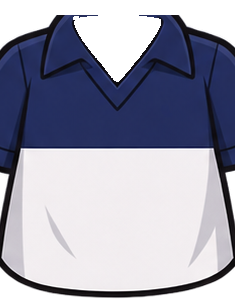
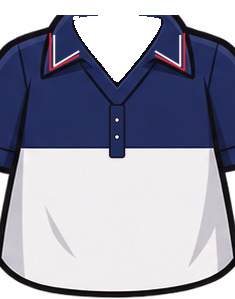
手摀被打處、受傷臉常駐、巴掌印/腫包/熊貓眼、Polo 領滾線與釦排、磕頭圖層修正

Changed region(s): [[0.4468, 0.3311, 0.5362, 0.5418], [0.6553, 0.0903, 0.8043, 0.2408], [0.2085, 0.0903, 0.3574, 0.2408]]

diff --git a/game.js b/game.js
@@ -30,6 +30,7 @@ for (const k in (window.SPRITES || {})) {
   const d = window.SPRITES[k]; const im = new Image();
   SP_IMG[k] = Object.assign({}, d, { im: im, ok: false }); im.onload = () => { SP_IMG[k].ok = true; }; im.src = d.img;
 }
+function armLength() { const p = P.armL; return p.ok ? partW(p) * p.im.naturalHeight / p.im.naturalWidth * 0.86 : 90; }
 function partW(p) { return p.w != null ? p.w : p.im.naturalWidth * IMG_SCALE; }
 
 // ---------- 動態狀態 ----------
@@ -43,6 +44,15 @@ const sp = {
 function stepSpring(s, dt) { s.v += (-s.k * s.x - s.d * s.v) * dt; s.x += s.v * dt; }
 
 let dizzyT = 0, bumpT = 0;
+// 打身體：手摀住被打的地方（torso 座標）
+let cover = null;
+// 傷勢：第一次被打後不再囂張；巴掌印、腫包、熊貓眼一直留到 KO 回血
+let beenHit = false, faceM = null;
+const bumps = [];                 // 臉上腫包 { x, y, r }（face 座標）
+const eyeDmg = { L: 0, R: 0 };    // 熊貓眼等級 0~3
+const EYE = { L: [-48, -12], R: [48, -12] };
+const HURT_TAUNTS = ['還、還沒完呢…', '你給我記住…', '才、才不痛咧！', '嗚…哼！', '有種再來啊…（發抖）'];
+function resetDamage() { beenHit = false; bumps.length = 0; marks.length = 0; eyeDmg.L = eyeDmg.R = 0; } // { x, y, t, max, arms: ['armL','armR'] }
 // HP 與 KO 流程：fly（被揍飛）→ twinkle（飛到天邊閃一下）→ fall（掉回地上）→ beg（哭著磕頭認錯）→ rise（站起來回滿血）
 const MAX_HP = 100;
 let hp = MAX_HP, hpShow = MAX_HP;
@@ -78,6 +88,20 @@ function update(dt) {
   // 手臂：跟著呼吸擺＋受擊甩動
   A.armL.rot = 0.06 + 0.05 * bLag + sp.arm.x;
   A.armR.rot = -0.06 - 0.05 * bLag - sp.arm.x * 0.8;
+  if (cover) {
+    cover.t += dt;
+    const T = cover.t, M = cover.max;
+    const w = T < 0.08 ? T / 0.08 : T > M - 0.3 ? Math.max(0, (M - T) / 0.3) : 1;
+    const e = w * w * (3 - 2 * w);
+    const armLen = armLength();
+    for (const k of cover.arms) {
+      const dx = cover.x - P[k].x, dy = cover.y - P[k].y;
+      const th = Math.atan2(-dx, dy), dist = Math.hypot(dx, dy);
+      A[k].rot = A[k].rot * (1 - e) + th * e;
+      A[k].sy *= 1 - e + e * Math.max(0.55, Math.min(1, dist / armLen));
+    }
+    if (T >= M) cover = null;
+  }
   // 頭髮：延遲彈跳
   const hb = Math.sin(t * 2.4 - 1.2) * 1.2;
   A.hairFront.dy = hb + sp.hair.x * 6; A.hairFront.rot = -sp.hair.x * 0.03;
@@ -86,7 +110,7 @@ function update(dt) {
   // 台詞
   if (bubble) { bubble.life -= dt; if (bubble.life <= 0) bubble = null; }
   if (!ko && !bubble && hurtT <= 0 && idleT > nextTaunt) {
-    bubble = { txt: pick(TAUNTS), life: 2.0, max: 2.0 };
+    bubble = { txt: pick(beenHit ? HURT_TAUNTS : TAUNTS), life: 2.0, max: 2.0 };
     nextTaunt = idleT + rand(4, 7);
   }
   if (ko) updateKO(dt);
@@ -204,6 +228,38 @@ function drawBumpDizzy() {
     ctx.restore();
   }
 }
+function addBump(x, y, r) {
+  const b = bumps.find(b => Math.hypot(b.x - x, b.y - y) < 22);
+  if (b) b.r = Math.min(30, b.r + 5); else { bumps.push({ x, y, r }); if (bumps.length > 8) bumps.shift(); }
+}
+// 熊貓眼＋腫起來把眼睛擠小、臉上腫包（face 座標）
+function drawInjury() {
+  for (const side of ['L', 'R']) {
+    const n = eyeDmg[side]; if (!n) continue;
+    const [ex, ey] = EYE[side];
+    const g = ctx.createRadialGradient(ex, ey, 4, ex, ey, 34 + 5 * n);
+    g.addColorStop(0, `rgba(55,20,75,${0.55 + 0.12 * n})`); g.addColorStop(0.65, `rgba(80,30,100,${0.35 + 0.1 * n})`); g.addColorStop(1, 'rgba(80,30,100,0)');
+    ctx.fillStyle = g; ctx.beginPath(); ctx.ellipse(ex, ey, 36 + 5 * n, 28 + 4 * n, 0, 0, Math.PI * 2); ctx.fill();
+    ctx.lineWidth = 3; ctx.strokeStyle = '#7a3a2e';
+    // 下眼瞼腫起往上擠
+    ctx.fillStyle = '#f0a48c';
+    ctx.beginPath(); ctx.ellipse(ex + (side === 'L' ? -3 : 3), ey + 16 - 3 * n, 26 + 3 * n, 8 + 4 * n, 0, 0, Math.PI * 2); ctx.fill();
+    ctx.beginPath(); ctx.ellipse(ex + (side === 'L' ? -3 : 3), ey + 16 - 3 * n, 26 + 3 * n, 8 + 4 * n, 0, Math.PI * 1.1, Math.PI * 1.9); ctx.stroke();
+    // 上眼皮也腫下來
+    if (n >= 2) {
+      ctx.beginPath(); ctx.ellipse(ex, ey - 15 + 2 * n, 24 + 2 * n, 5 + 3 * n, 0, 0, Math.PI * 2); ctx.fill();
+      ctx.beginPath(); ctx.ellipse(ex, ey - 15 + 2 * n, 24 + 2 * n, 5 + 3 * n, 0, Math.PI * 0.1, Math.PI * 0.9); ctx.stroke();
+    }
+    ctx.fillStyle = 'rgba(255,255,255,.55)'; ctx.beginPath(); ctx.ellipse(ex - 8, ey + 10 - 3 * n, 6, 2.5, -0.2, 0, Math.PI * 2); ctx.fill();
+  }
+  for (const b of bumps) {
+    const g = ctx.createRadialGradient(b.x - b.r * 0.3, b.y - b.r * 0.3, 1, b.x, b.y, b.r);
+    g.addColorStop(0, '#ff9a8a'); g.addColorStop(1, '#e0584a');
+    ctx.fillStyle = g; ctx.beginPath(); ctx.ellipse(b.x, b.y, b.r, b.r * 0.82, 0, 0, Math.PI * 2); ctx.fill();
+    ctx.lineWidth = 3; ctx.strokeStyle = '#8a3428'; ctx.stroke();
+    ctx.fillStyle = 'rgba(255,255,255,.7)'; ctx.beginPath(); ctx.ellipse(b.x - b.r * 0.35, b.y - b.r * 0.4, b.r * 0.25, b.r * 0.13, -0.5, 0, Math.PI * 2); ctx.fill();
+  }
+}
 function drawMarks() {
   for (const m of marks) {
     const a = Math.min(1, m.life / 1.5) * 0.55;
@@ -221,7 +277,7 @@ function render() {
   ctx.fillStyle = g; ctx.fillRect(0, 0, W, H);
   if (shakeT > 0) { const s = shakeA * shakeT / 0.25; ctx.translate(rand(-s, s), rand(-s, s)); }
 
-  const hurt = hurtT > 0;
+  const hurt = hurtT > 0 || beenHit;
   // 地面影子
   ctx.save(); ctx.fillStyle = 'rgba(120,70,30,.18)';
   ctx.beginPath(); ctx.ellipse(RX + sp.bodyX.x * S * 0.5, RY + (L.feet - 3) * S, 110 * S * (1 + sp.knock.x), 18 * S, 0, 0, Math.PI * 2); ctx.fill(); ctx.restore();
@@ -245,11 +301,14 @@ function render() {
     const s2 = SP_IMG[spr], h = s2.h, w = h * s2.im.naturalWidth / s2.im.naturalHeight;
     ctx.save(); if (s2.flip) ctx.scale(-1, 1); ctx.drawImage(s2.im, -w / 2, L.feet - h + (s2.dy || 0), w, h); ctx.restore();
   }
-  if (!spr) for (const key of ORDER) {
+  const order = ko && (ko.phase === 'beg' || ko.phase === 'land')
+    ? ORDER.filter(k => !['hairBack', 'head', 'face', 'faceHurt', 'hairFront'].includes(k)).concat(['hairBack', 'head', 'face', 'faceHurt', 'hairFront'])
+    : ORDER;
+  if (!spr) for (const key of order) {
     if (key === 'face' && hurt) continue;
     if (key === 'faceHurt' && !hurt) continue;
     ctx.save(); applyChain(key); drawPart(key);
-    if (key === 'face' || key === 'faceHurt') drawMarks();
+    if (key === 'face' || key === 'faceHurt') { faceM = ctx.getTransform(); drawInjury(); drawMarks(); }
     if (key === 'hairFront') drawBumpDizzy();
     if (EDIT) { ctx.fillStyle = key === sel ? '#f00' : '#0a0'; circ(0, 0, key === sel ? 7 : 4); ctx.fill(); }
     ctx.restore();
@@ -361,7 +420,7 @@ function sfxPunch(rate = 1) {
 
 // ---------- 打擊 ----------
 function onHit(isPunch, dmg = 6) {
-  hp = Math.max(0, hp - dmg);
+  hp = Math.max(0, hp - dmg); beenHit = true;
   hurtT = Math.max(hurtT, isPunch ? 0.7 : 0.9); idleT = 0; nextTaunt = rand(1.4, 2.2);
   combo++; comboT = 1.0; if (combo > best) best = combo;
   if (isPunch) nPunch++; else nSlap++;
@@ -381,7 +440,8 @@ function slap(dir, v) {
   sp.headRot.v += dir * 6 * f; sp.headX.v += dir * 150 * f;
   sp.bodyRot.v += dir * 1.8 * f; sp.bodyX.v += dir * 110 * f;
   sp.arm.v += 2.5 * f; sp.hair.v += 3 * f;
-  marks.push({ x: -dir * rand(50, 64), y: rand(12, 26), rot: -dir * 0.3 + rand(-0.2, 0.2), life: 4 });
+  marks.push({ x: -dir * rand(50, 64), y: rand(12, 26), rot: -dir * 0.3 + rand(-0.2, 0.2), life: Infinity });
+  addBump(-dir * 60, 24, 6);
   if (marks.length > 8) marks.shift();
   onHit(false, 4 + f * 2); shake(8 * f); sfxSlap(f);
   const h = headScreen();
@@ -393,8 +453,22 @@ function punch(x, y) {
   const onHead = y < RY + L.neckY * S;
   const off = Math.max(-1, Math.min(1, (x - h.x) / (110 * S)));
   sp.knock.v -= 2.4; sp.squash.v += 2.8; sp.hair.v += 4;
-  if (onHead) { sp.headRot.v += -off * 5 + rand(-1, 1); sp.headX.v += -off * 80; }
-  else { sp.bodyRot.v += -off * 2; sp.arm.v += 4; sp.headRot.v += rand(-2, 2); }
+  if (onHead) {
+    sp.headRot.v += -off * 5 + rand(-1, 1); sp.headX.v += -off * 80;
+    if (faceM) {
+      const p = faceM.inverse().transformPoint(new DOMPoint(x * DPR, y * DPR));
+      if (Math.abs(p.x) < 115 && p.y > -75 && p.y < 75) {
+        const side = ['L', 'R'].find(k => Math.hypot(p.x - EYE[k][0], p.y - EYE[k][1]) < 34);
+        if (side) eyeDmg[side] = Math.min(3, eyeDmg[side] + 1); else addBump(p.x, p.y, 13);
+      }
+    }
+  }
+  else {
+    sp.bodyRot.v += -off * 2; sp.headRot.v += rand(-2, 2);
+    const lx = (x - (RX + sp.bodyX.x * S)) / S, ly = (y - RY) / S - P.torso.y;
+    const arms = Math.abs(lx) < 35 ? ['armL', 'armR'] : lx < 0 ? ['armL'] : ['armR'];
+    cover = { x: lx, y: ly, t: 0, max: 1.1, arms };
+  }
   onHit(true, 7); shake(6); sfxPunch();
   fx.push({ type: 'emoji', ch: '👊', x, y, size: 64, life: 0.35, max: 0.35, vx: 0, vy: 0 });
   fx.push({ type: 'ring', col: '#ffcc33', x, y, size: 60, life: 0.3, max: 0.3, vx: 0, vy: 0 });
@@ -468,7 +542,7 @@ function updateKO(dt) {
     if (T > 5) { ko.phase = 'rise'; ko.t = 0; bubble = { txt: '……哼，剛剛只是讓你的', life: 2.2, max: 2.2 }; }
   } else if (ko.phase === 'rise') {
     hp = Math.min(MAX_HP, hp + MAX_HP * dt * 1.5);
-    if (T > 0.8) { hp = MAX_HP; ko = null; hurtT = 0; idleT = 0; nextTaunt = 3; sp.squash.v -= 4; return; }
+    if (T > 0.8) { resetDamage(); hp = MAX_HP; ko = null; hurtT = 0; idleT = 0; nextTaunt = 3; sp.squash.v -= 4; return; }
   }
   if (!koSprite()) koPuppetPose();
 }

diff --git a/slice_grid.py b/slice_grid.py
@@ -66,6 +66,34 @@ def strip_sleeves(torso):
     return out.crop(out.getchannel('A').getbbox())
 
 
+def polo_details(torso):
+    """Polo 細節（座標對應 parts_sheet_polo.png 去袖後的 torso）：
+    翻領外緣紅白滾線、釦排往下延伸略超過深藍段。4 倍超取樣後縮回，邊緣才平滑。"""
+    from PIL import ImageDraw
+    Z = 4
+    W, H = torso.size
+    ov = Image.new('RGBA', (W * Z, H * Z), (0, 0, 0, 0))
+    d = ImageDraw.Draw(ov)
+    P = lambda pts: [(x * Z, y * Z) for x, y in pts]
+    mir = lambda pts: [(W - 1 - x, y) for x, y in pts]
+    NAVY, LINE, RED, WHITE = (34, 44, 91, 255), (20, 18, 28, 255), (214, 40, 52, 255), (248, 248, 246, 255)
+    # 釦排：V 領尖往下到深藍段下緣再多一點
+    x0, x1, y0, y1 = 109, 125, 104, 158
+    d.rounded_rectangle([x0 * Z, y0 * Z, x1 * Z, y1 * Z], radius=3 * Z, fill=NAVY, outline=LINE, width=int(1.8 * Z))
+    for by in (120, 137):
+        d.ellipse([(117 - 2.6) * Z, (by - 2.6) * Z, (117 + 2.6) * Z, (by + 2.6) * Z], fill=WHITE, outline=LINE, width=Z)
+    # 翻領滾線：外側紅、內側白
+    red = [(50, 33), (50, 70), (79, 55)]
+    white = [(54, 35), (54, 66), (79, 51)]
+    for pts, col in ((red, RED), (white, WHITE)):
+        for side in (pts, mir(pts)):
+            d.line(P(side), fill=col, width=int(2.2 * Z), joint='curve')
+    ov = ov.resize((W, H), Image.LANCZOS)
+    out = torso.copy()
+    out.alpha_composite(ov)
+    return out
+
+
 def hole_mask(torso):
     """領口洞內側（深藍、很暗、偏藍）：從上緣中央往下長出相連區域"""
     W, H = torso.size
@@ -159,6 +187,8 @@ def main():
         part = layer.crop(layer.getchannel('A').getbbox())
         if name == 'torso':
             part = strip_sleeves(part)
+            if 'polo' in os.path.basename(sys.argv[1]):
+                part = polo_details(part)
         part.save(os.path.join(out, name + '.png'))
         print(f'  {name}: {part.size}')
         if name == 'torso':
